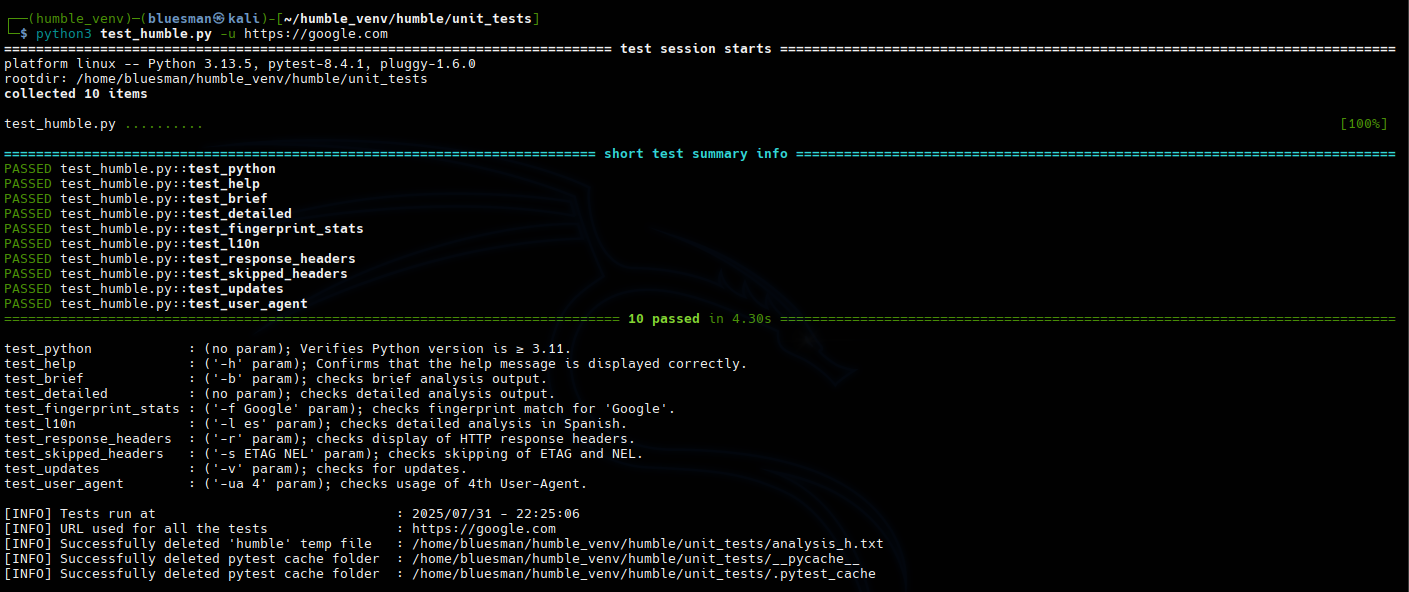
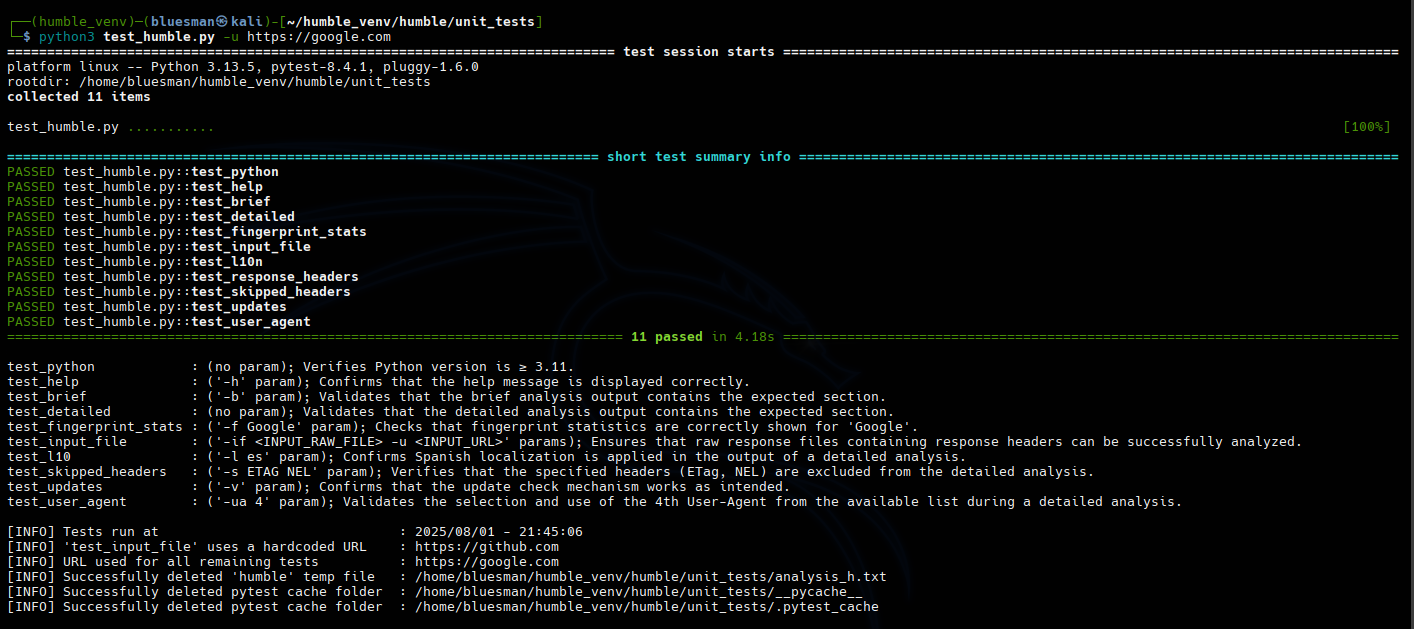
Minor: Code optimizations (related to unit tests)

diff --git a/unit_tests/test_humble.py b/unit_tests/test_humble.py
@@ -1,27 +1,38 @@
 #!/usr/bin/env python3
 
-import os
 import sys
 import time
 import pytest
 import shutil
 import contextlib
 import subprocess
+from os import path, remove
 from datetime import datetime
 from argparse import ArgumentParser, RawDescriptionHelpFormatter
 
-SCRIPT_DIR = os.path.dirname(__file__)
-ANALYSIS_FILE = [os.path.join(SCRIPT_DIR, 'analysis_h.txt')]
-PYTEST_CACHES = [os.path.join(SCRIPT_DIR, d) for d in ['__pycache__',
-                                                       '.pytest_cache']]
+HUMBLE_TESTS_DIR = path.dirname(__file__)
+HUMBLE_TEMP_FILE = path.join(HUMBLE_TESTS_DIR, 'analysis_h.txt')
+PYTEST_CACHE_DIRS = [
+    path.join(HUMBLE_TESTS_DIR, d)
+    for d in ['__pycache__', '.pytest_cache']
+]
 HUMBLE_DESC = "Unit tests for 'humble' (HTTP Headers Analyzer)"
-HUMBLE_FILE = os.path.abspath(os.path.join(SCRIPT_DIR, '..', 'humble.py'))
 HUMBLE_GIT = 'https://github.com/rfc-st/humble'
+HUMBLE_PROJECT_ROOT = path.abspath(path.join(HUMBLE_TESTS_DIR, '..'))
+HUMBLE_INPUT_DIR = path.join(HUMBLE_PROJECT_ROOT, 'samples')
+HUMBLE_INPUT_FILE = path.abspath(path.join(HUMBLE_INPUT_DIR,
+                                           'github_input_file.txt'))
+HUMBLE_INPUT_URL = 'https://github.com'
+HUMBLE_L10N_DIR = path.join(HUMBLE_PROJECT_ROOT, 'l10n')
+HUMBLE_L10N_FILE = 'details.txt'
+HUMBLE_MAIN_FILE = path.abspath(path.join(HUMBLE_TESTS_DIR, '..', 'humble.py'))
 TEST_CFGS = {
     'test_help': (['-h'], 'want to contribute?'),
     'test_brief': (['-u', None, '-b'], 'Analysis Grade:'),
     'test_detailed': (['-u', None], 'Analysis Grade:'),
     'test_fingerprint_stats': (['-f', 'Google'], 'Headers related to'),
+    'test_input_file': (['-if', HUMBLE_INPUT_FILE, '-u', HUMBLE_INPUT_URL],
+                        'Input:'),
     'test_l10n': (['-u', None, '-l', 'es'], 'Advertencias a revisar'),
     'test_response_headers': (['-u', None, '-r'], 'HTTP Response Headers'),
     'test_skipped_headers': (['-u', None, '-s', 'ETAG', 'NEL'],
@@ -29,37 +40,46 @@ TEST_CFGS = {
     'test_updates': (['-v'], 'Keeping your security tools'),
     'test_user_agent': (['-u', None, '-ua', '4'], 'Selected the User-Agent'),
 }
-TEST_SUMMS = {
-    "test_python": "(no param); Verifies Python version is ≥ 3.11.",
-    "test_help": "('-h' param); Confirms that the help message is displayed \
-correctly.",
-    "test_brief": "('-b' param); checks brief analysis output.",
-    "test_detailed": "(no param); checks detailed analysis output.",
-    "test_fingerprint_stats": "('-f Google' param); checks fingerprint match \
-for 'Google'.",
-    "test_l10n": "('-l es' param); checks detailed analysis in Spanish.",
-    "test_response_headers": "('-r' param); checks display of HTTP response \
-headers.",
-    "test_skipped_headers": "('-s ETAG NEL' param); checks skipping of ETAG \
-and NEL.",
-    "test_updates": "('-v' param); checks for updates.",
-    "test_user_agent": "('-ua 4' param); checks usage of 4th User-Agent.",
-}
+TEST_SUMMS = ('[test_python]', '[test_help]', '[test_brief]',
+              '[test_detailed]', '[test_fingerprint_stats]',
+              '[test_input_file]', '[test_l10]', '[test_skipped_headers]',
+              '[test_updates]', '[test_user_agent]')
 
 
 @pytest.fixture(scope="session", autouse=True)
 def delete_prior_temps():
-    for f in ANALYSIS_FILE:
-        if os.path.isfile(f):
-            with contextlib.suppress(Exception):
-                os.remove(f)
+    if path.isfile(HUMBLE_TEMP_FILE):
+        with contextlib.suppress(Exception):
+            remove(HUMBLE_TEMP_FILE)
     yield
+
+
+def get_detail(id_mode, replace=False):
+    for i, line in enumerate(l10n_main):
+        if line.startswith(id_mode):
+            return (l10n_main[i+1].replace('\n', '')) if replace else \
+                l10n_main[i+1]
+
+
+def get_l10n_content():
+    l10n_path = path.join(HUMBLE_TESTS_DIR, HUMBLE_L10N_DIR, HUMBLE_L10N_FILE)
+    with open(l10n_path, 'r', encoding='utf8') as l10n_content:
+        return l10n_content.readlines()
+
+
+def print_results():
+    print()
+    summaries = [(tag, get_detail(tag, replace=True)) for tag in TEST_SUMMS]
+    max_len = max(len(tag.strip("[]")) for tag, _ in summaries)
+    for tag, detail in summaries:
+        print(f"{tag.strip("[]").ljust(max_len + 1)}:{detail}")
+    print()
 
 
 def run_cmd(args):
     try:
         result = subprocess.run(
-            [sys.executable, HUMBLE_FILE] + args,
+            [sys.executable, HUMBLE_MAIN_FILE] + args,
             capture_output=True,
             text=True,
             timeout=5,
@@ -111,6 +131,10 @@ def test_fingerprint_stats():
     run_test('fingerprint_stats', *TEST_CFGS['test_fingerprint_stats'])
 
 
+def test_input_file():
+    run_test('input_file', *TEST_CFGS['test_input_file'])
+
+
 def test_l10n():
     run_test('l10n', *TEST_CFGS['test_l10n'])
 
@@ -133,13 +157,13 @@ def test_user_agent():
 
 def delete_humble_analysis(file_path, retries=5, delay=0.1):
     messages = []
-    if not os.path.isfile(file_path):
+    if not path.isfile(file_path):
         return messages
     for attempt in range(1, retries + 1):
         try:
-            os.remove(file_path)
+            remove(file_path)
             time.sleep(delay)
-            if not os.path.isfile(file_path):
+            if not path.isfile(file_path):
                 messages.append(("Successfully deleted 'humble' temp file",
                                  file_path))
                 return messages
@@ -153,7 +177,7 @@ def delete_humble_analysis(file_path, retries=5, delay=0.1):
 
 def delete_pytest_caches(dir_path):
     messages = []
-    if os.path.isdir(dir_path):
+    if path.isdir(dir_path):
         try:
             shutil.rmtree(dir_path)
             messages.append(("Successfully deleted pytest cache folder",
@@ -168,11 +192,11 @@ def delete_temps():
     timestamp = datetime.now().strftime("%Y/%m/%d - %H:%M:%S")
     info_messages = [
         ("Tests run at", timestamp),
-        ("URL used for all the tests", url_test)
+        ("'test_input_file' uses a hardcoded URL", "https://github.com"),
+        ("URL used for all remaining tests", url_test)
     ]
-    for f in ANALYSIS_FILE:
-        info_messages.extend(delete_humble_analysis(f))
-    for cache_dir in PYTEST_CACHES:
+    info_messages.extend(delete_humble_analysis(HUMBLE_TEMP_FILE))
+    for cache_dir in PYTEST_CACHE_DIRS:
         info_messages.extend(delete_pytest_caches(cache_dir))
     max_len = max(len(msg[0]) for msg in info_messages)
     for message, value in info_messages:
@@ -196,11 +220,8 @@ args = parser.parse_args(args=None if sys.argv[1:] else ['--help'])
 url_test = args.URL
 
 if __name__ == "__main__":
+    l10n_main = get_l10n_content()
     code = pytest.main([__file__, "--tb=no", "-rA", "-q", "-v"])
-    max_len = max(len(name) for name in TEST_SUMMS)
-    print()
-    for name, desc in TEST_SUMMS.items():
-        print(f"{name.ljust(max_len + 1)}: {desc}")
-    print()
+    print_results()
     delete_temps()
     sys.exit()

diff --git a/humble.py b/humble.py
@@ -178,7 +178,7 @@ URL_STRING = ('rfc-st', ' URL  : ', 'https://caniuse.com/?')
 XML_STRING = ('Ref: ', 'Value: ', 'Valor: ')
 
 current_time = datetime.now().strftime("%Y/%m/%d - %H:%M:%S")
-local_version = datetime.strptime('2025-07-31', '%Y-%m-%d').date()
+local_version = datetime.strptime('2025-08-01', '%Y-%m-%d').date()
 
 
 class SSLContextAdapter(requests.adapters.HTTPAdapter):

diff --git a/README.md b/README.md
@@ -6,7 +6,7 @@
 <a target="_blank" href="https://devguide.python.org/versions/" title="Minimum Python version required to run this tool"><img src="https://img.shields.io/badge/Python-%3E%3D3.11-blue?labelColor=343b41"></a>
 <a target="_blank" href="LICENSE" title="License of this tool"><img src="https://img.shields.io/badge/License-MIT-blue.svg?labelColor=343b41"></a>
 <a target="_blank" href="https://github.com/rfc-st/humble/releases" title="Latest release of this tool"><img src="https://img.shields.io/github/v/release/rfc-st/humble?display_name=release&label=Latest%20Release&labelColor=343b41"></a>
-<a target="_blank" href="https://github.com/rfc-st/humble/commits/master" title="Latest commit of this tool"><img src="https://img.shields.io/badge/Latest_Commit-2025--07--31-blue.svg?labelColor=343b41"></a>
+<a target="_blank" href="https://github.com/rfc-st/humble/commits/master" title="Latest commit of this tool"><img src="https://img.shields.io/badge/Latest_Commit-2025--08--01-blue.svg?labelColor=343b41"></a>
 <a target="_blank" href="https://pkg.kali.org/pkg/humble" title="Official tool in Kali Linux"><img src="https://img.shields.io/badge/Kali%20Linux-Tool-blue?labelColor=343b41"></a>
 <br />
 <a target="_blank" href="#" title="Featured on:"><img src="https://img.shields.io/badge/Featured%20on:-343b41"></a>
